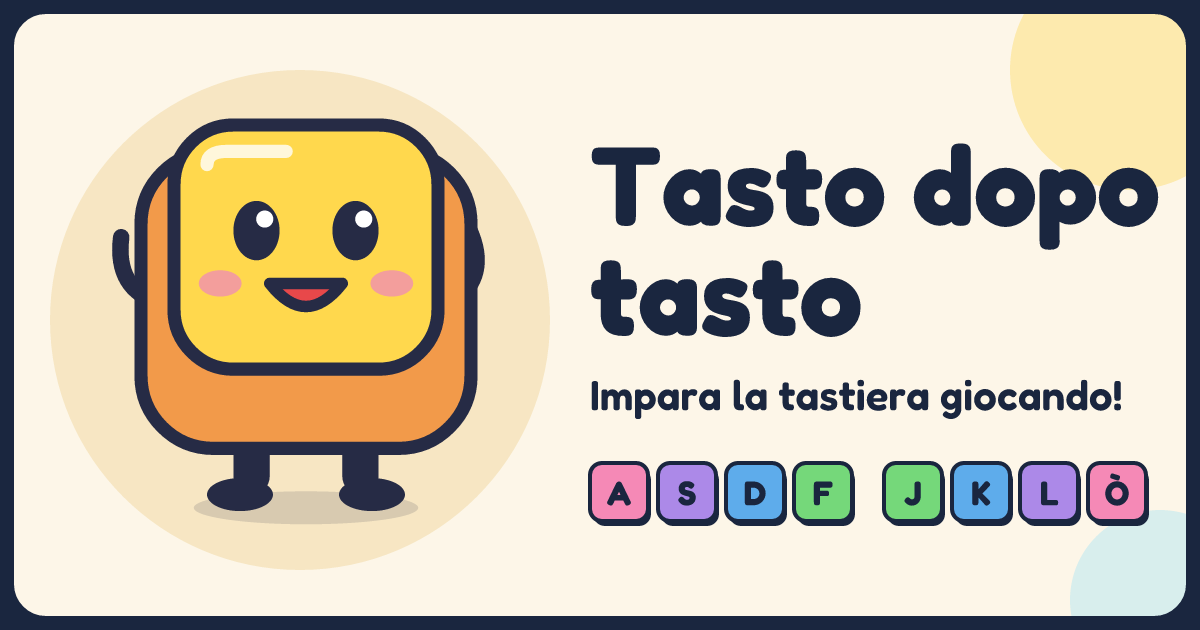
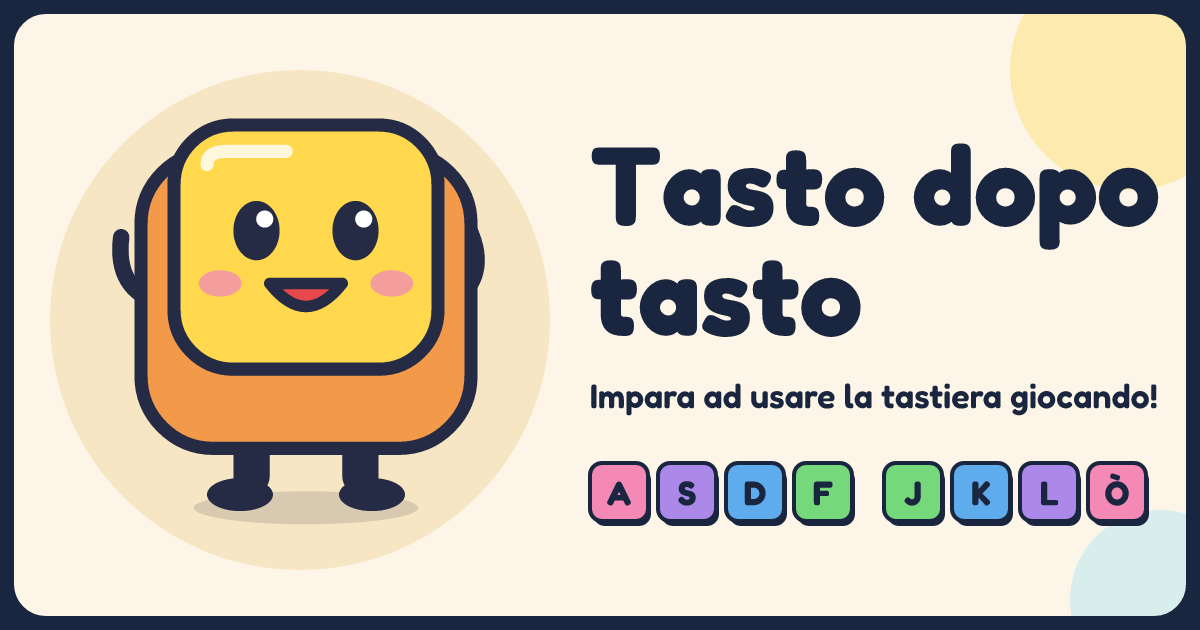
Reword the tagline to "Impara ad usare la tastiera giocando!"
Updates the home page subtitle, the social preview image and its alt text.

Changed region(s): [[0.4933, 0.6032, 0.9867, 0.6635]]

diff --git a/src/texts/interface.md b/src/texts/interface.md
@@ -5,7 +5,7 @@ description: Impara a usare la tastiera giocando, con Tastino!
 mascot: Tastino
 preview:
   image: /social-preview.png
-  alt: "Tastino, un tasto giallo e arancione che sorride, accanto alla scritta «Tasto dopo tasto, impara la tastiera giocando!» e ai tasti colorati della riga di casa."
+  alt: "Tastino, un tasto giallo e arancione che sorride, accanto alla scritta «Tasto dopo tasto, impara ad usare la tastiera giocando!» e ai tasti colorati della riga di casa."
 footer: Fatto con 💛 per piccole dita curiose.
 license:
   authors: © 2026 gli autori di Tasto dopo tasto

diff --git a/src/index.md b/src/index.md
@@ -2,7 +2,7 @@
 layout: layouts/home.vto
 title: Tasto dopo tasto
 big_title: Tasto dopo tasto
-subtitle: Impara la tastiera giocando!
+subtitle: Impara ad usare la tastiera giocando!
 bubble: "Ciao! Io sono **Tastino**, il tasto più simpatico del mondo. Vuoi diventare un mago della tastiera? Scegli da dove partire!"
 areas:
   - url: /storia/
